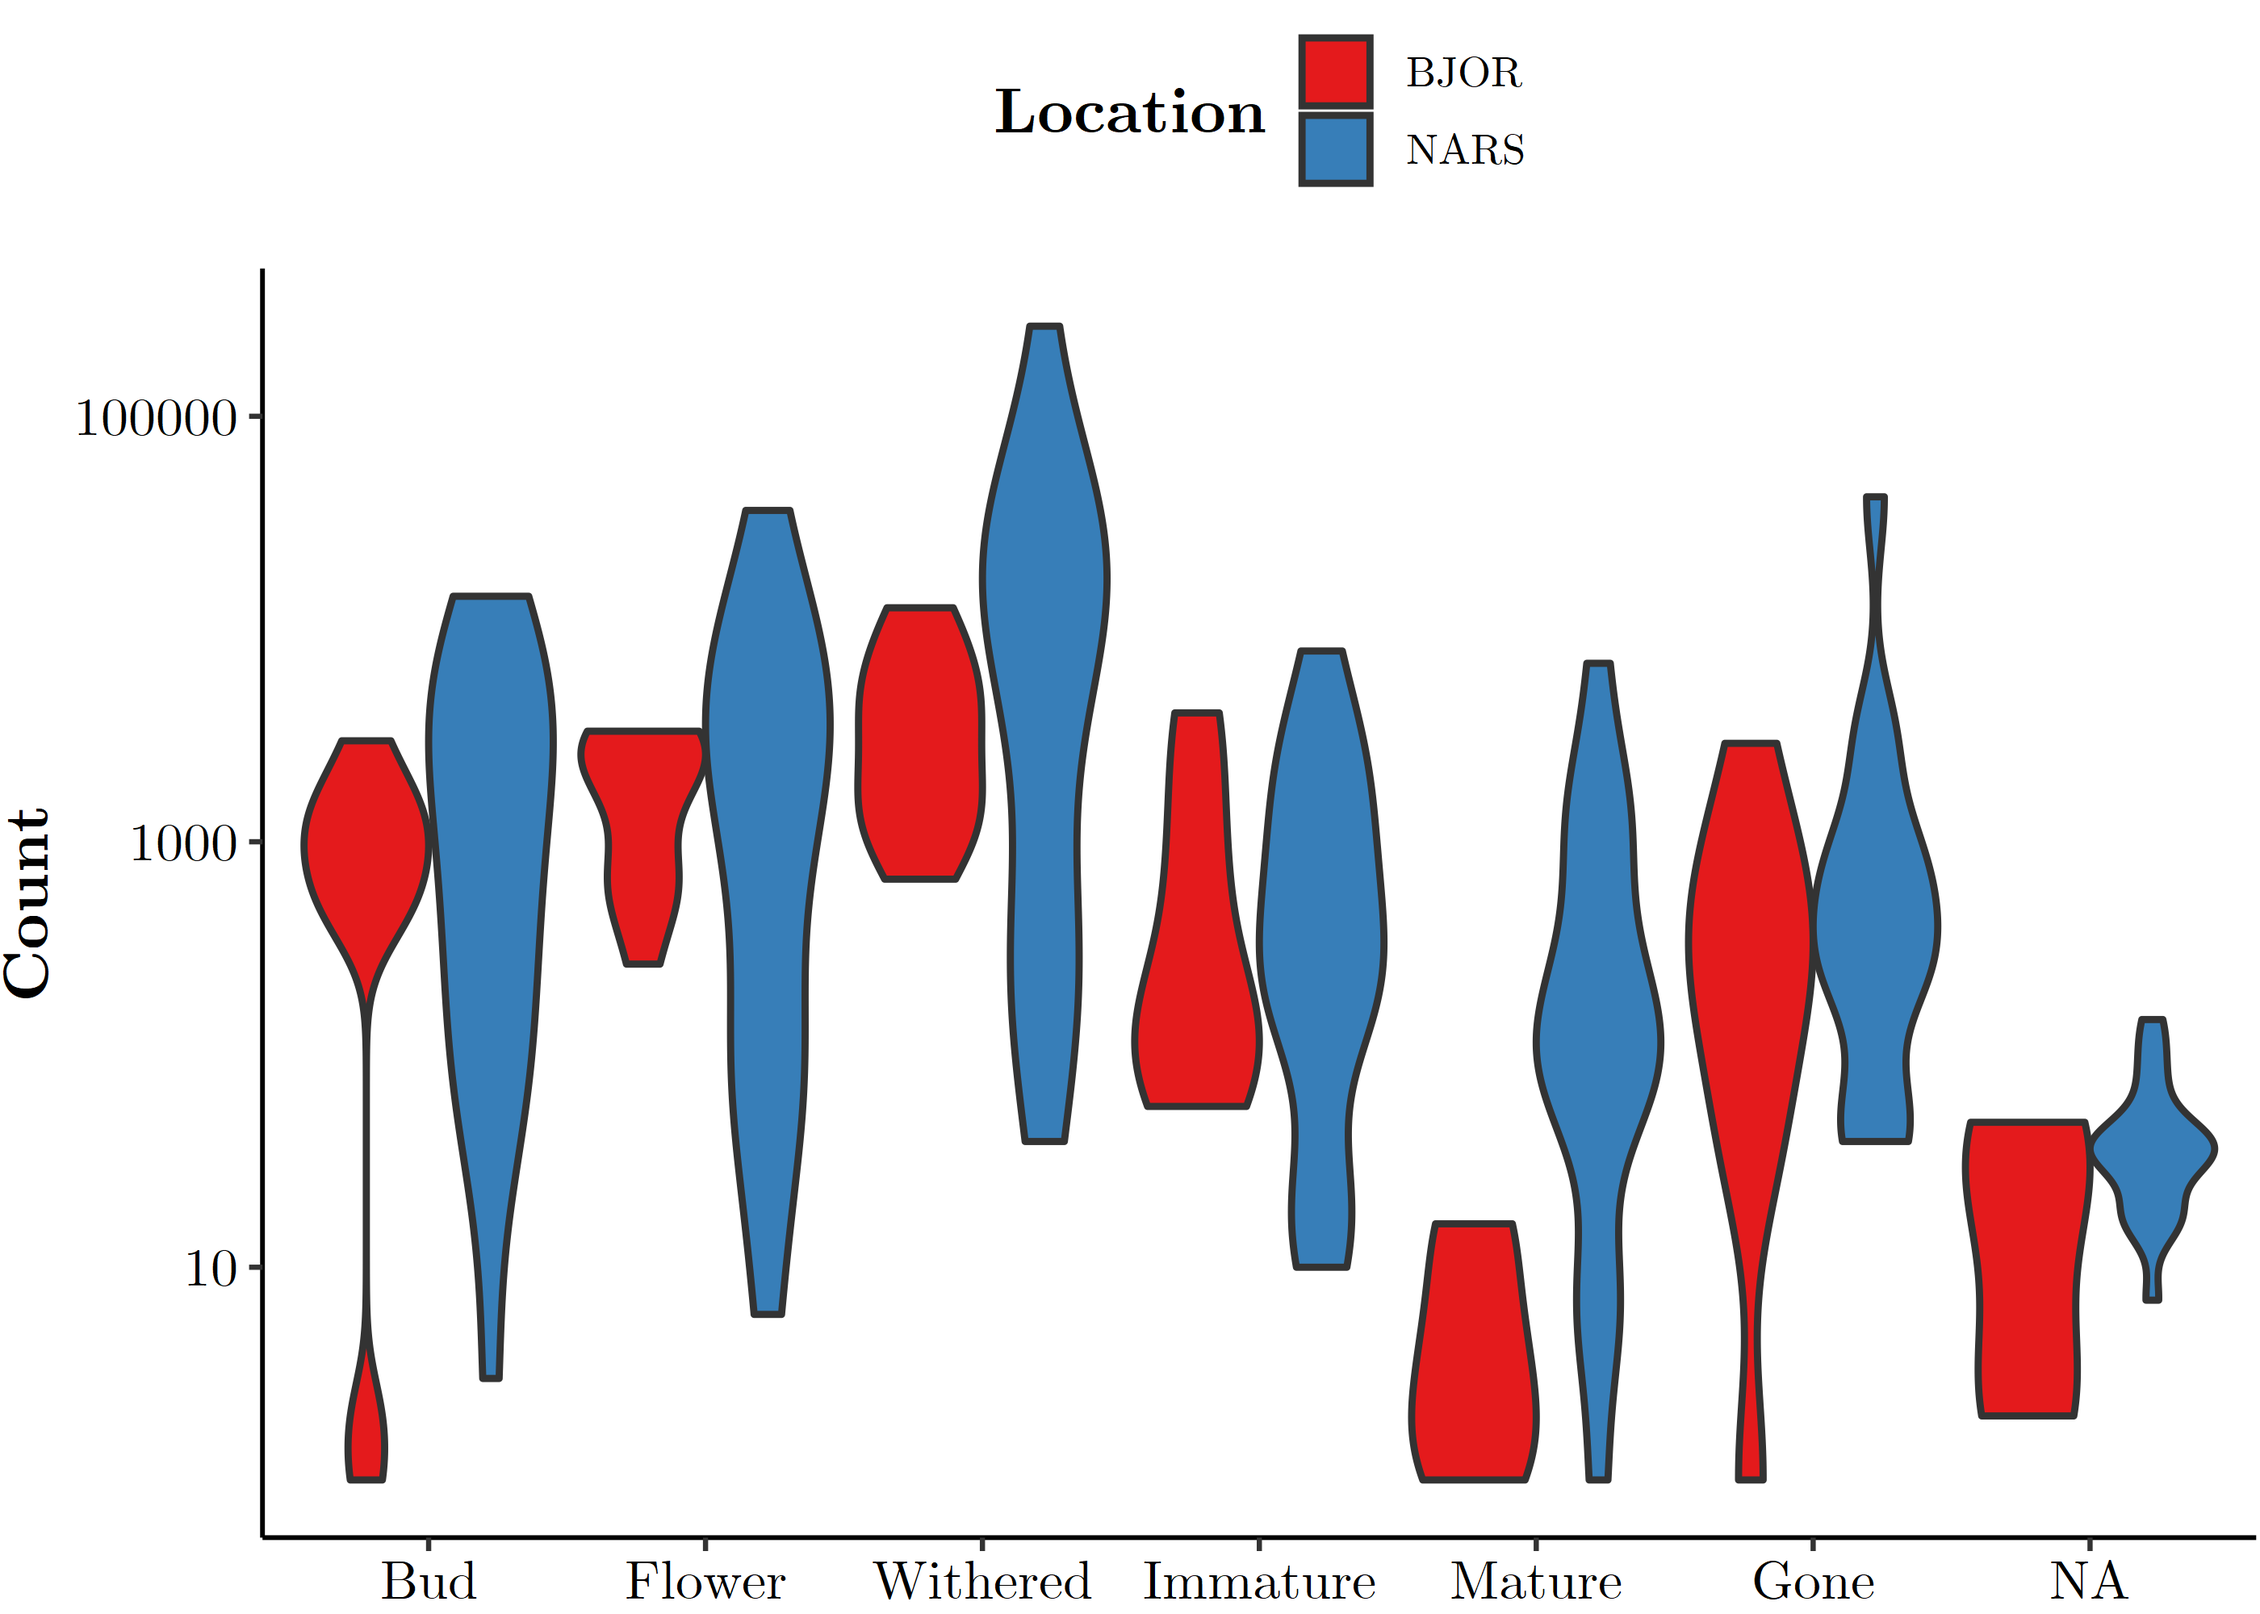
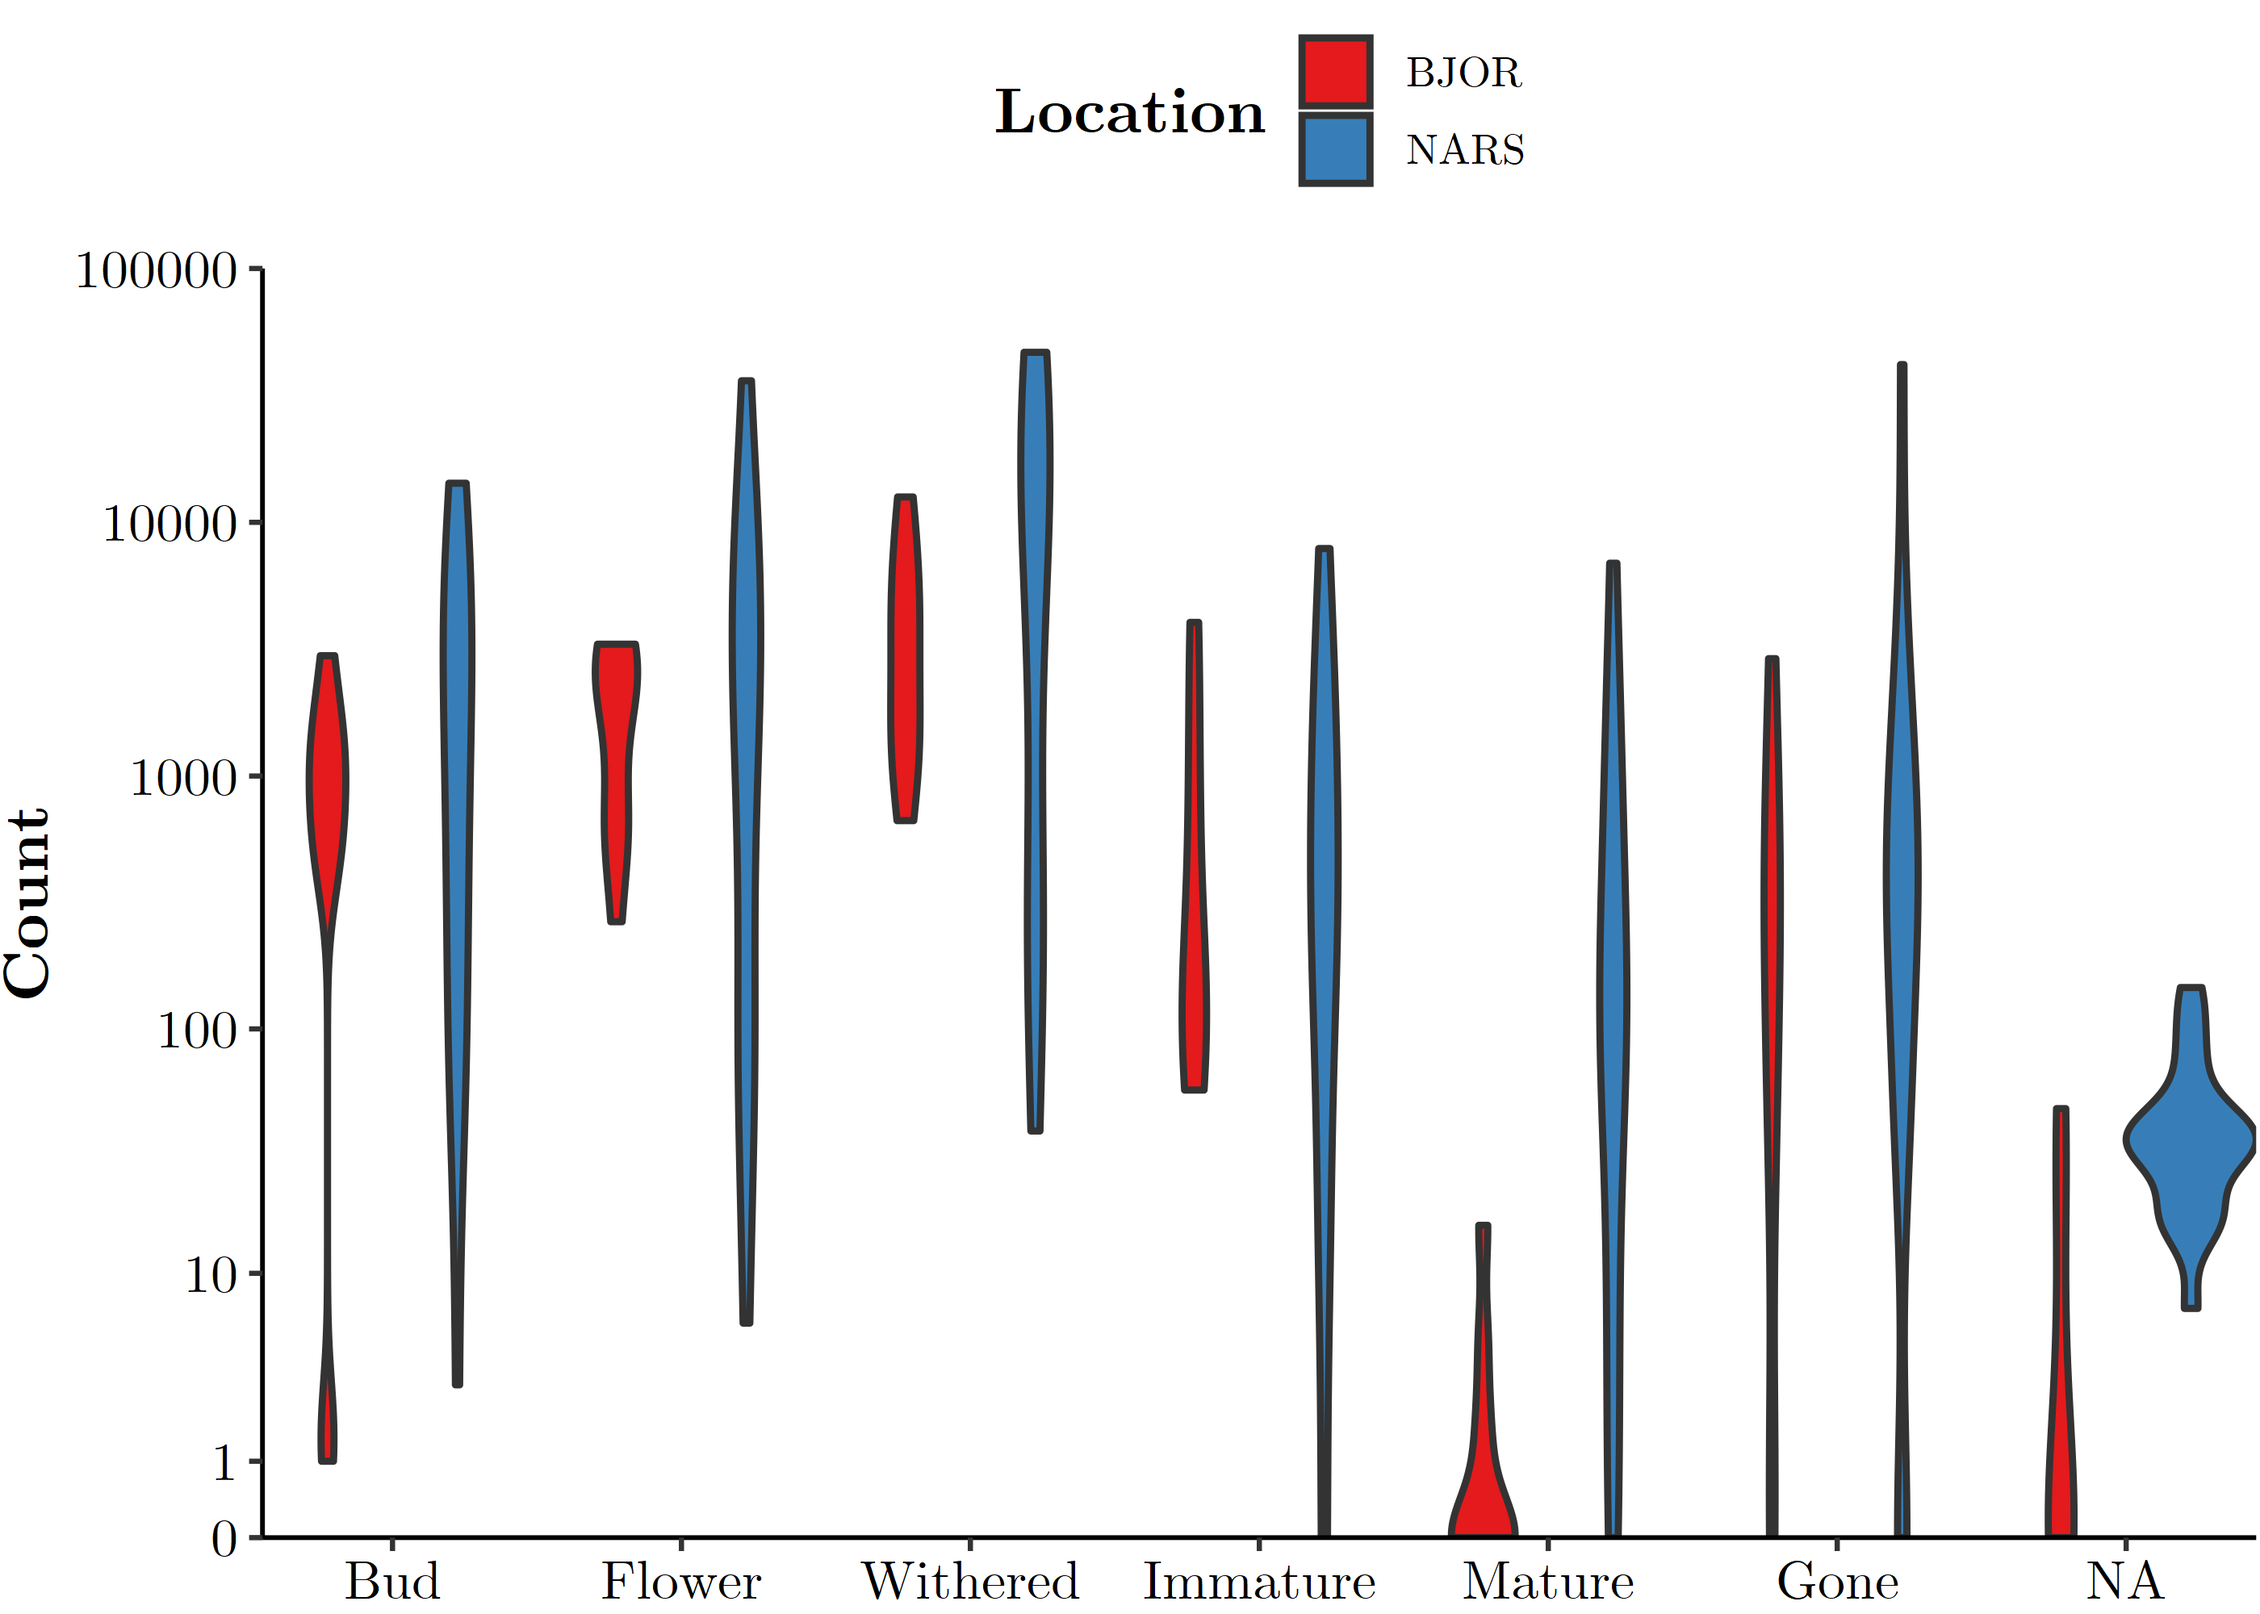
...

diff --git a/README.md b/README.md
@@ -132,8 +132,4 @@ series.
 A more digestible overview of the class frequencies might be found in a
 plot such as this one:
 
-    ## Warning: Transformation introduced infinite values in continuous y-axis
-
-    ## Warning: Removed 21 rows containing non-finite values (stat_ydensity).
-
 ![](readme_files/chunk_figures/unnamed-chunk-6-1.png)<!-- -->
